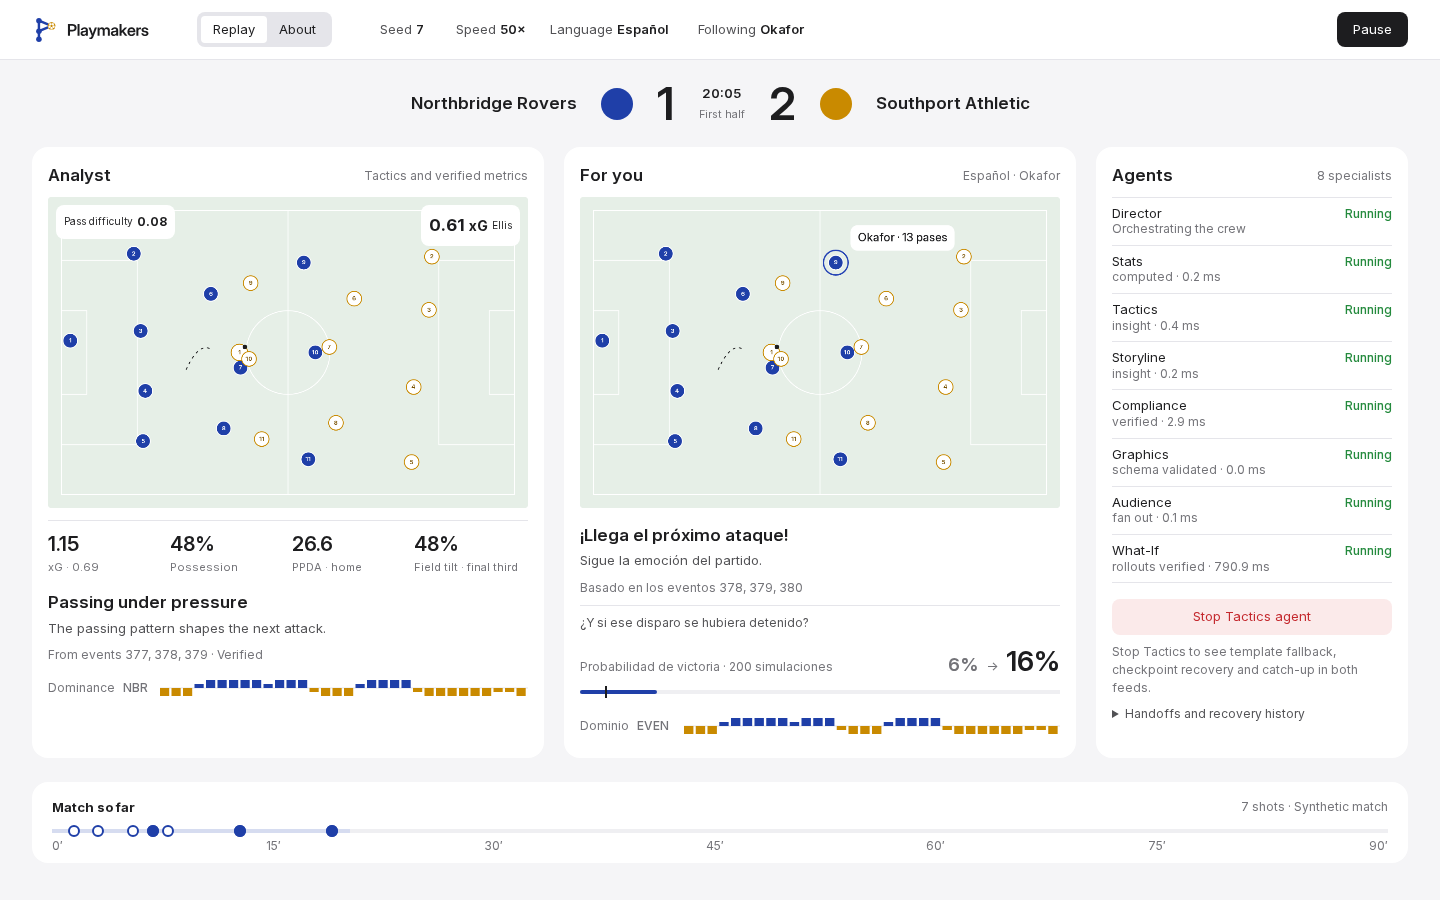
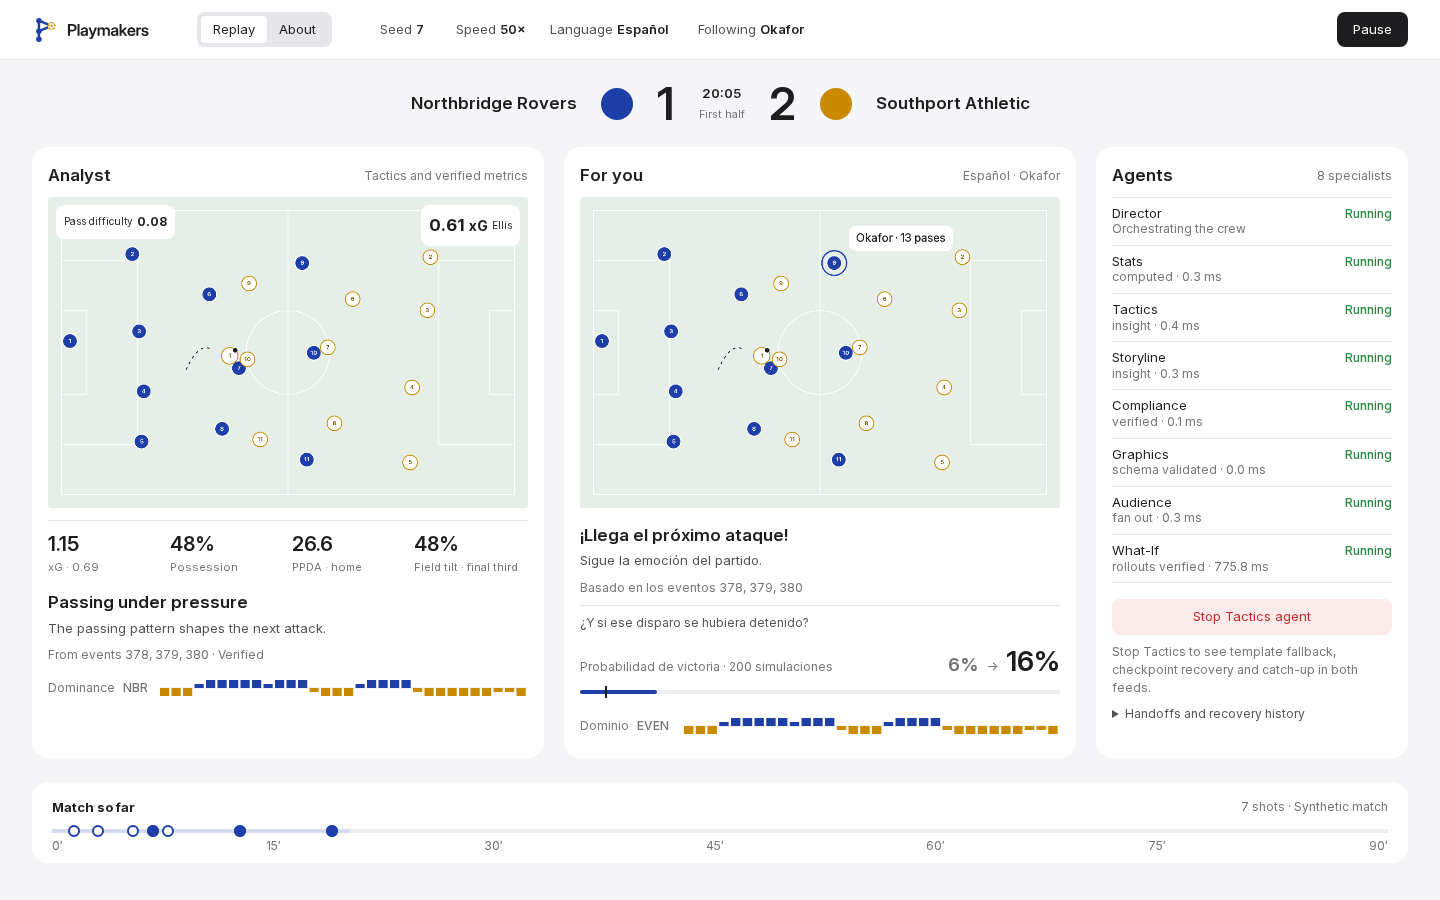
docs: mark CODE-REVIEW items Fixed/Partial/Open; refresh Calm screenshots

diff --git a/docs/CODE-REVIEW.md b/docs/CODE-REVIEW.md
@@ -6,6 +6,64 @@ Severity: **blocker** (breaks demo/judges or security) · **high** · **medium**
 
 ---
 
+## Current disposition (15 Oct 2026)
+
+The findings below describe the original review. This table is the current status;
+"Fixed" for a reviewed-safe item means no defect remains to address.
+
+| Item | Status | Evidence / remaining scope |
+|---|---|---|
+| B1 | **Fixed** | Shared in-memory producer, explicit viewer list, server-side cue filtering, refcount cleanup; web restored to 200 rollouts. |
+| H1 | **Fixed** | Seed/speed bounded on SSE and WS; existing regression test. |
+| H2 | **Fixed** | What-If evidence limited to eight IDs, trigger last. |
+| H3 | **Fixed** | Compliance uses the existing StatsPacket. |
+| H4 | **Fixed** | Broken pools rebuilt with one retry; existing recovery remains in place. |
+| H5 | **Partial** | Last-subscriber cancellation closes the producer/Director and cancels pending futures; executing process batches finish. No request.is_disconnected polling. |
+| H6 | **Fixed** | Safe pool initialization/getattr works without lifespan. |
+| H7 | **Fixed** | Replay WS handles WebSocketDisconnect. |
+| H8 | **Fixed** | Recovery snapshots on first event, every 25 sequences, kill/recovery boundaries and full time; agent progress stays current in memory. Framework superstep checkpoints remain. |
+| M1 | **Open** | Only Tactics injection supported and documented; other agents deferred. |
+| M2 | **Fixed** | Clock mm:ss and contextual jersey/shirt/number 1–99 allowed; unverified metric numbers still rejected. |
+| M3 | **Partial** | Reconnect reads existing shared history while another subscriber remains; after last disconnect the deterministic match rebuilds. |
+| M4 | **Fixed** | Plain Favourite/Favorito/Favori replaces decorative star prefix. |
+| M5 | **Open** | Offline non-English analyst phrase table remains; real translation unverified. |
+| M6 | **Fixed** | Required scoring_team_id and regression coverage retained. |
+| M7 | **Fixed** | CORS_ORIGINS comma-separated environment allowlist, default localhost:5173; override tested. |
+| M8 | **Open** | Public deployment rate limiting/demo token deferred; local demo remains unauthenticated. |
+| M9 | **Fixed** | Salvage removed in the prior review pass. |
+| M10 | **Fixed** | Generated contract drift remains checked in CI; Playmakers names retained. |
+| M11 | **Fixed** | playmakers WS accepts and forwards replay_from_ms. |
+| L1 | **Open** | Offline mock function-invoking warning remains expected. |
+| L2 | **Fixed** | Reviewed safe: checkpoint paths are not query controlled. |
+| L3 | **Fixed** | Reviewed safe: live clients use managed credentials; no keys introduced. |
+| L4 | **Fixed** | Reviewed safe: no server redirect added. |
+| L5 | **Fixed** | Reviewed safe: typed inputs and strict KillSpec retained. |
+| L6 | **Partial** | speed=0 remains for tests; shared producers cancel on last disconnect, no public rate limit. |
+| L7 | **Fixed** | HANDOFF heading updated; historical entries retain their dates. |
+| N1 | **Open** | Overlay priority sorting retained; no new cap on visible cue count. |
+| N2 | **Open** | Stream status exists; no Agents-footer reconnect label added. |
+| N3 | **Open** | Start/Pause connection-state disabling deferred. |
+| N4 | **Partial** | Named fictional favourites retained; no new metric flicker changes. |
+| N5 | **Fixed** | About continues to hide Replay controls; live screenshot verifies it. |
+
+Additional requested work: **Fixed** — frontend 75 ms batching and history caps;
+Playwright Chromium integration in Ubuntu CI with failure propagation and captures;
+multi-stage API/web Dockerfiles, runtime `config.js`, nginx SSE proxy, Compose and
+dockerignore. Container image builds are **unverified locally** (Docker CLI absent).
+No separate MCP image is needed: the API mounts Stats MCP.
+
+Shared sessions are process-local and keyed by replay parameters plus the viewer
+configuration; both UI requests send the same two profiles. The default API profile
+set covers all six persona/language pairs for compatibility with independent clients.
+Different favourites require the same explicit list on both subscribing requests.
+Tests cover concurrent real HTTP streams constructing one Director, persona filtering,
+kill/recovery traces, refcount cleanup, kill-key isolation, checkpoint-tail restore,
+CORS override, and structural numeric prose. The web burst test checks delayed flush,
+retention caps and timer cleanup. The real screenshot flow passed at 200 rollouts. Final checks: 62 offline Python tests,
+10 web tests, Ruff format/check, pip check, web lint/build all pass.
+
+---
+
 ## Summary counts
 
 | Severity | Count |
@@ -27,109 +85,109 @@ Top 5 (fix these before Azure):
 
 ## 1. Correctness & bugs
 
-### B1 — Dual independent Directors for Analyst + Fan  · **blocker (demo scale)**
+### B1 — Dual independent Directors for Analyst + Fan  · **blocker (demo scale)** · **Fixed**
 `web/src/App.tsx:104-120` opens two `usePlaymakersStream` hooks. Each hits `/playmakers/sse` and constructs its own `Director` (`services/replay_api/src/replay_api/main.py:100-106`) with `whatif_rollouts=200`. Same match is simulated and analysed twice; What-If runs twice.
 
 **Impact:** At default demo settings the UI is the heaviest client. Judges' laptops / Azure free tier will struggle. Codex previously reported ~3,147 cues × 2 ≈ 6k cue messages plus ~9k traces × 2.
 
-**Mitigation applied:** web uses `whatif_rollouts=40`. **Proper fix still open:** Single shared backend session (match_id + seed) with fan-out of personas inside one Director (`profiles=[analyst, casual]`), or a `/playmakers/sse` multiplex that already supports multiple profiles—wire the UI to one stream and filter by `persona`. Short-term: default `whatif_rollouts=20` for the web and raise only for the CLI kill demo.
+**Mitigation applied:** web uses `whatif_rollouts=40`. **Original proposed fix (now implemented; see status table):** Single shared backend session (match_id + seed) with fan-out of personas inside one Director (`profiles=[analyst, casual]`), or a `/playmakers/sse` multiplex that already supports multiple profiles—wire the UI to one stream and filter by `persona`. Short-term: default `whatif_rollouts=20` for the web and raise only for the CLI kill demo.
 
-### H1 — Unbounded seed/speed  · **high**
+### H1 — Unbounded seed/speed  · **high** · **Fixed**
 `main.py:131-132` (`seed: int = 7`, `speed: float = 50`) have **no** `Query(ge=…, le=…)`. `whatif_rollouts` and `replay_from_ms` are bounded. Negative or huge `speed` is accepted; `speed=0` is intentionally instant (tests rely on it) but still unbounded concurrency of such requests is a DoS.
 
 **Fix:** `seed: Annotated[int, Query(ge=0, le=10_000)]`, `speed: Annotated[float, Query(ge=0, le=100)]` (keep 0 for tests). Same on WS.
 
-### H2 — What-If evidence lists the entire match  · **high**
+### H2 — What-If evidence lists the entire match  · **high** · **Fixed**
 `what_if.py:178`: `evidence_event_ids=[row.event_id for row in events]`. Late-match What-If cues carry 1000+ IDs; JSON payload balloons; frontend stores them all.
 
 **Fix:** Cite triggering event (+ optional short window / metric evidence). Keep last id = trigger (tests assert this).
 
-### H3 — Compliance O(n²)  · **high** *(fixed)*
+### H3 — Compliance O(n²)  · **high** *(fixed)* · **Fixed**
 Was rebuilding a full `StatsEngine` from all events on every insight validation.
 
 **Fix applied:** Validate insights against the `StatsPacket` already produced by StatsExecutor (same deterministic numbers, O(1)). Do **not** use the live engine here — it already contains the in-flight event and breaks kill-recover replay compliance. Added regression test.
 
-### H4 — BrokenProcessPool not recovered  · **high**
+### H4 — BrokenProcessPool not recovered  · **high** · **Fixed**
 `what_if.py:122-128` submits to a shared pool. If a worker dies (OOM, forced kill), `asyncio.gather` raises `BrokenProcessPool`. Lifespan pool is never replaced (`main.py:32-39`). Reproduced when running ad-hoc scripts; production risk under memory pressure.
 
 **Fix:** Catch `BrokenProcessPool`, shut down, `create_rollout_pool()`, retry once; if using app.state pool, replace `app.state.whatif_pool`. Add test.
 
-### H5 — SSE disconnect does not cancel mid-What-If promptly  · **high**
+### H5 — SSE disconnect does not cancel mid-What-If promptly  · **high** · **Partial**
 `main.py:151-165` uses `aclosing` (good) but never `await request.is_disconnected()`. A client close during a 200-rollout What-If waits for pool futures. Frontend reconnect storms amplify this (see M3).
 
 **Fix:** Between events (and before What-If), if `await request.is_disconnected(): break`. Cancel pending What-If futures on Director exit (already partially done in `WhatIfAgent.close`).
 
-### H6 — `app.state.whatif_pool` AttributeError without lifespan  · **high**
+### H6 — `app.state.whatif_pool` AttributeError without lifespan  · **high** · **Fixed**
 Bare `TestClient(app)` (no context manager) → `AttributeError: 'State' object has no attribute 'whatif_pool'` (`main.py:161`). Reproduced.
 
 **Fix:** `getattr(request.app.state, "whatif_pool", None)` and document that clients must use lifespan; or initialise `whatif_pool = None` at import.
 
-### H7 — WebSocket `/replay/ws` ignores disconnect  · **high**
+### H7 — WebSocket `/replay/ws` ignores disconnect  · **high** · **Fixed**
 `main.py:77-87` only special-cases `CancelledError`, always `ws.close()` in `finally`. Client disconnect during send can error noisily. `/playmakers/ws` handles `WebSocketDisconnect` correctly.
 
 **Fix:** Mirror playmakers_ws handling.
 
-### H8 — Recovery checkpoint writes full event list every event  · **high (perf/correctness under load)**
+### H8 — Recovery checkpoint writes full event list every event  · **high (perf/correctness under load)** · **Fixed**
 `workflow.py:644-656` serialises **all** events to `FileCheckpointStorage` after every event. I/O and disk grow with match length; concurrent SSE sessions write separately.
 
 **Fix:** Incremental append, or checkpoint every N events / on kill only; keep last sequences in memory.
 
-### M1 — Kill only supports `tactics`  · **medium**
+### M1 — Kill only supports `tactics`  · **medium** · **Open**
 `resilience.py:16-17`. Fine for demo; document. UI hard-codes "Stop Tactics agent".
 
-### M2 — Numeric prose check is brittle  · **medium**
+### M2 — Numeric prose check is brittle  · **medium** · **Fixed**
 `workflow.py:313-319`: any number in headline/detail must equal a rounded metric. Clock times, jersey numbers, "2nd half" fail compliance → template spam for real Azure models.
 
 **Fix:** Whitelist structural numbers or strip clock/jersey patterns before the check.
 
-### M3 — Frontend reconnect replays full match  · **medium**
+### M3 — Frontend reconnect replays full match  · **medium** · **Partial**
 `stream.ts:88-98`: on error, reconnect with same query; dedupe by sequence. Backend still re-simulates and re-runs Director from kickoff (unless `replay_from_ms` set). Kill button sets `replay_from_ms` (`App.tsx`), good; network blips do not.
 
-### M4 — `★` favourite marker  · **medium (brand)**
+### M4 — `★` favourite marker  · **medium (brand)** · **Fixed**
 `personalize.py:110,128` prefixes `★`. Conflicts with Calm "no emoji/decorative marks" preference. Use text "Favourite ·" or a quiet SVG.
 
-### M5 — Personalization overwrites analyst non-English content with generic blurbs  · **medium**
+### M5 — Personalization overwrites analyst non-English content with generic blurbs  · **medium** · **Open**
 `personalize.py:64-71`: offline non-English analyst gets fixed "Análisis del partido" instead of translated insight. Fine for mock; weak for multilingual demo.
 
-### M6 — Goal team via `scoring_team_id` only  · **medium (covered)**
+### M6 — Goal team via `scoring_team_id` only  · **medium (covered)** · **Fixed**
 `engine.py:186-191` correctly uses required `scoring_team_id` (earlier bug fixed). Keep test `test_goal_uses_required_scoring_team_without_optional_team_id`.
 
-### M7 — CORS locked to localhost:5173  · **medium (Azure)**
+### M7 — CORS locked to localhost:5173  · **medium (Azure)** · **Fixed**
 `main.py:46`. Correct for local; Azure static URL will fail until env-driven allowlist (`CORS_ORIGINS`).
 
-### M8 — No auth on kill / replay  · **medium (expected for hackathon)**
+### M8 — No auth on kill / replay  · **medium (expected for hackathon)** · **Open**
 Anyone who can reach the API can burn CPU with kill+whatif. Acceptable offline; add rate limit or demo token before public Azure URL.
 
-### M9 — salvage/ still in tree  · **medium**
+### M9 — salvage/ still in tree  · **medium** · **Fixed**
 `salvage/phase2/` (~27 files) includes **old api_key-oriented clients**. PLAN.md says remove once ported. Confuses reviewers and secret scanners.
 
 **Fix:** Delete `salvage/` in a dedicated commit (content already ported).
 
-### M10 — Schema `$id` / package paths after rename  · **medium**
+### M10 — Schema `$id` / package paths after rename  · **medium** · **Fixed**
 Verify generated TS and JSON Schema `$id` strings say playmakers (Codex claimed yes). Spot-check in CI already diffs `src/generated`.
 
-### M11 — WS playmakers path missing `replay_from_ms`  · **medium**
+### M11 — WS playmakers path missing `replay_from_ms`  · **medium** · **Fixed**
 SSE supports `replay_from_ms`; WS does not (`main.py:174-207`). Kill-recover via WS incomplete.
 
-### L1 — DeterministicMock lacks function invoking  · **low**
+### L1 — DeterministicMock lacks function invoking  · **low** · **Open**
 Runtime warning: "chat client does not support function invoking". MCP tools attached to writers are unused offline—by design.
 
-### L2 — No path traversal on checkpoints  · **low (ok)**
+### L2 — No path traversal on checkpoints  · **low (ok)** · **Fixed**
 Checkpoint dir is tempfile or operator-supplied, not query-param. No issue found.
 
-### L3 — No secrets in live packages  · **low (ok)**
+### L3 — No secrets in live packages  · **low (ok)** · **Fixed**
 Live `model_clients.py` uses `DefaultAzureCredential`. Only salvage mentions `api_key`. `.env.example` placeholders only. `.env` gitignored.
 
-### L4 — Open redirects  · **low (ok)**
+### L4 — Open redirects  · **low (ok)** · **Fixed**
 Client-side `history.pushState` only; no server redirect.
 
-### L5 — Injection  · **low (ok)**
+### L5 — Injection  · **low (ok)** · **Fixed**
 Event payloads are structured Pydantic; LLM prompts are JSON dumps. KillSpec parsed strictly. No SQL.
 
-### L6 — `speed=0` floods event loop  · **low**
+### L6 — `speed=0` floods event loop  · **low** · **Partial**
 Intentional for tests; with H1 caps and disconnect checks, acceptable.
 
-### L7 — HANDOFF date still says 14 Oct in places  · **low**
+### L7 — HANDOFF date still says 14 Oct in places  · **low** · **Fixed**
 Docs mostly updated for rename; a few timestamps stale.
 
 ---
@@ -209,7 +267,7 @@ Docs mostly updated for rename; a few timestamps stale.
 
 ## Fixes applied in this review pass
 
-Commit implements:
+Earlier review pass implemented (no commit created by this task):
 - **H1** Bound `seed` (0–10000) and `speed` (0–100) on SSE/WS.
 - **H2** Cap What-If `evidence_event_ids` to last ≤8 (trigger last).
 - **H3** Compliance validates against `StatsPacket` (O(1); kill-recover safe).

diff --git a/docs/HANDOFF.md b/docs/HANDOFF.md
@@ -1,4 +1,25 @@
-# HANDOFF — current state (as of Wed 14 Oct 2026)
+# HANDOFF — current state (as of Thu 15 Oct 2026)
+
+## Review follow-up (15 Oct 2026)
+
+- B1: shared process-local SSE session with replay history, explicit profiles,
+  server-side cue filtering and last-subscriber teardown. Both web EventSources
+  send the same analyst/fan list; What-If runs once and uses 200 rollouts again.
+- H8: recovery snapshots every 25 sequences, first event, kill/recover and full time;
+  writer progress remains current in memory. Restore replays the unsaved tail.
+- Frontend batches every 75 ms; events/traces/recent cues capped at 2500/2400/400,
+  retaining still-active cues too. Long pauses can outlive retained presentation history.
+- Added CORS_ORIGINS, WS replay_from_ms, structural clock/jersey compliance exceptions,
+  plain translated favourite labels, and Chromium screenshot execution in Ubuntu CI.
+- Multi-stage non-root API image, Node-to-nginx web image, runtime config.js, unbuffered
+  same-origin API proxy and docker compose demo added. Stats MCP stays mounted in API.
+  Docker image builds were not run locally because the Docker CLI is absent.
+- Validation: 62 offline Python tests, Ruff format/check, pip check, 10 web tests,
+  web lint/build pass. Live screenshot passed with 200 rollouts (both feeds, What-If,
+  clocks, recovery, About). CI/Compose YAML and runtime shell syntax checked.
+  docs/CODE-REVIEW.md records every finding as Fixed/Open/Partial. No commits/deployments.
+- Limits: sessions do not span API processes, final disconnect discards replay history,
+  running process-pool batches finish normally, public rate limiting/Azure remain deferred.
 
 ## Playmakers rename (15 Oct 2026)
 
